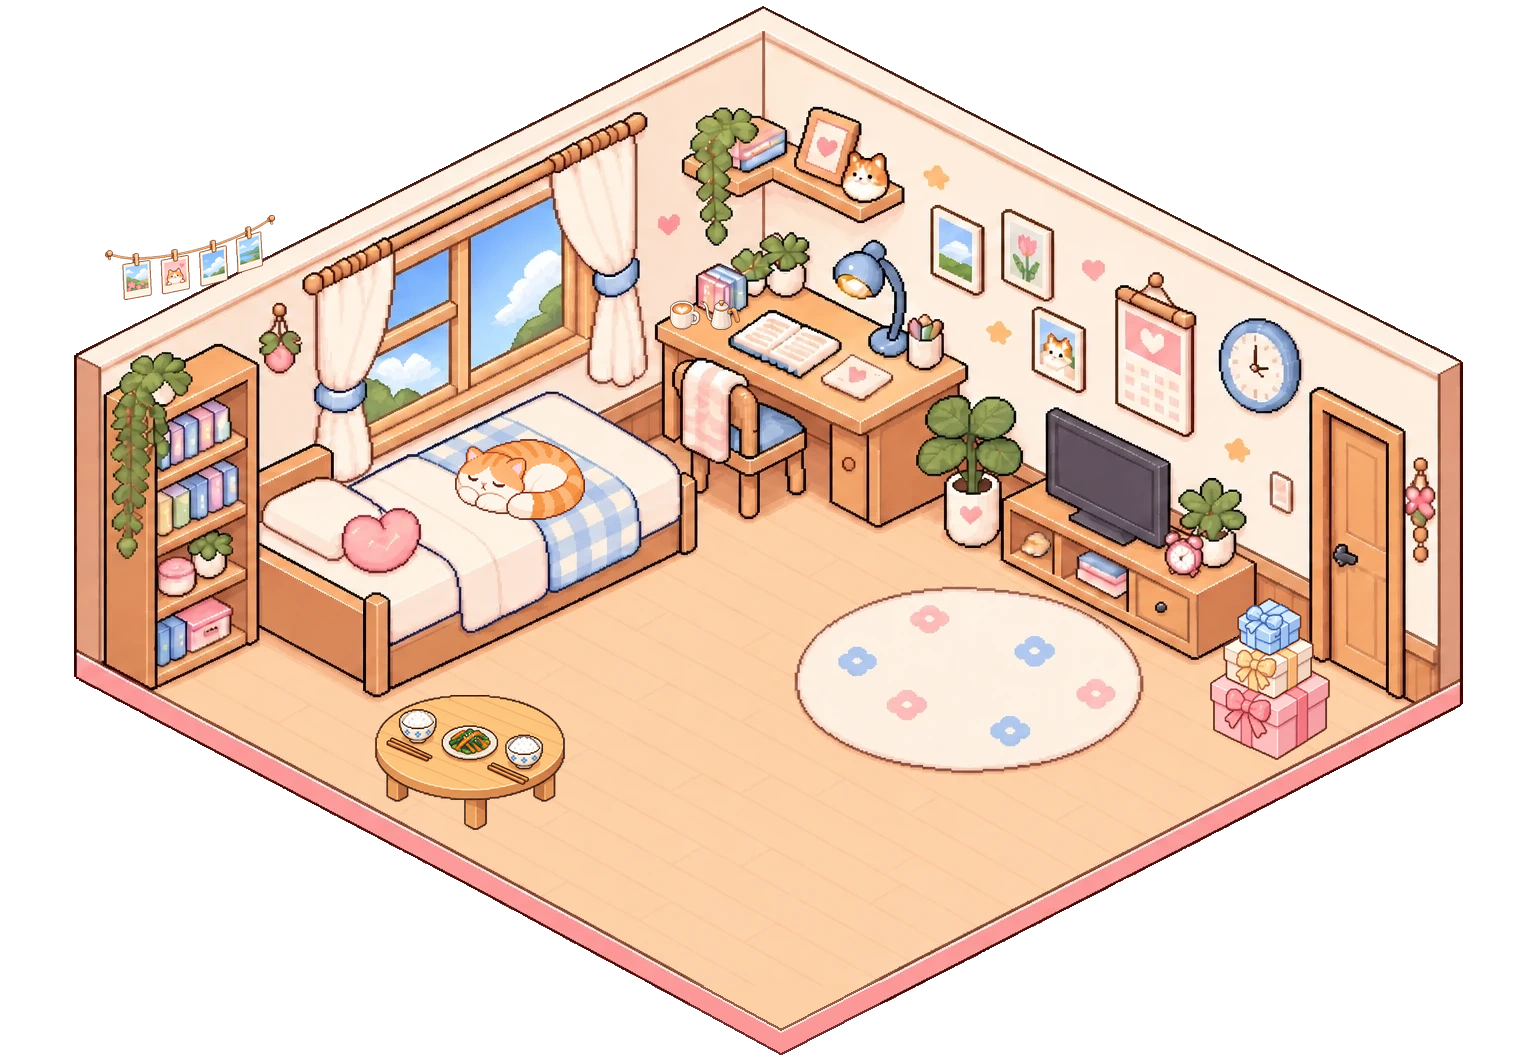
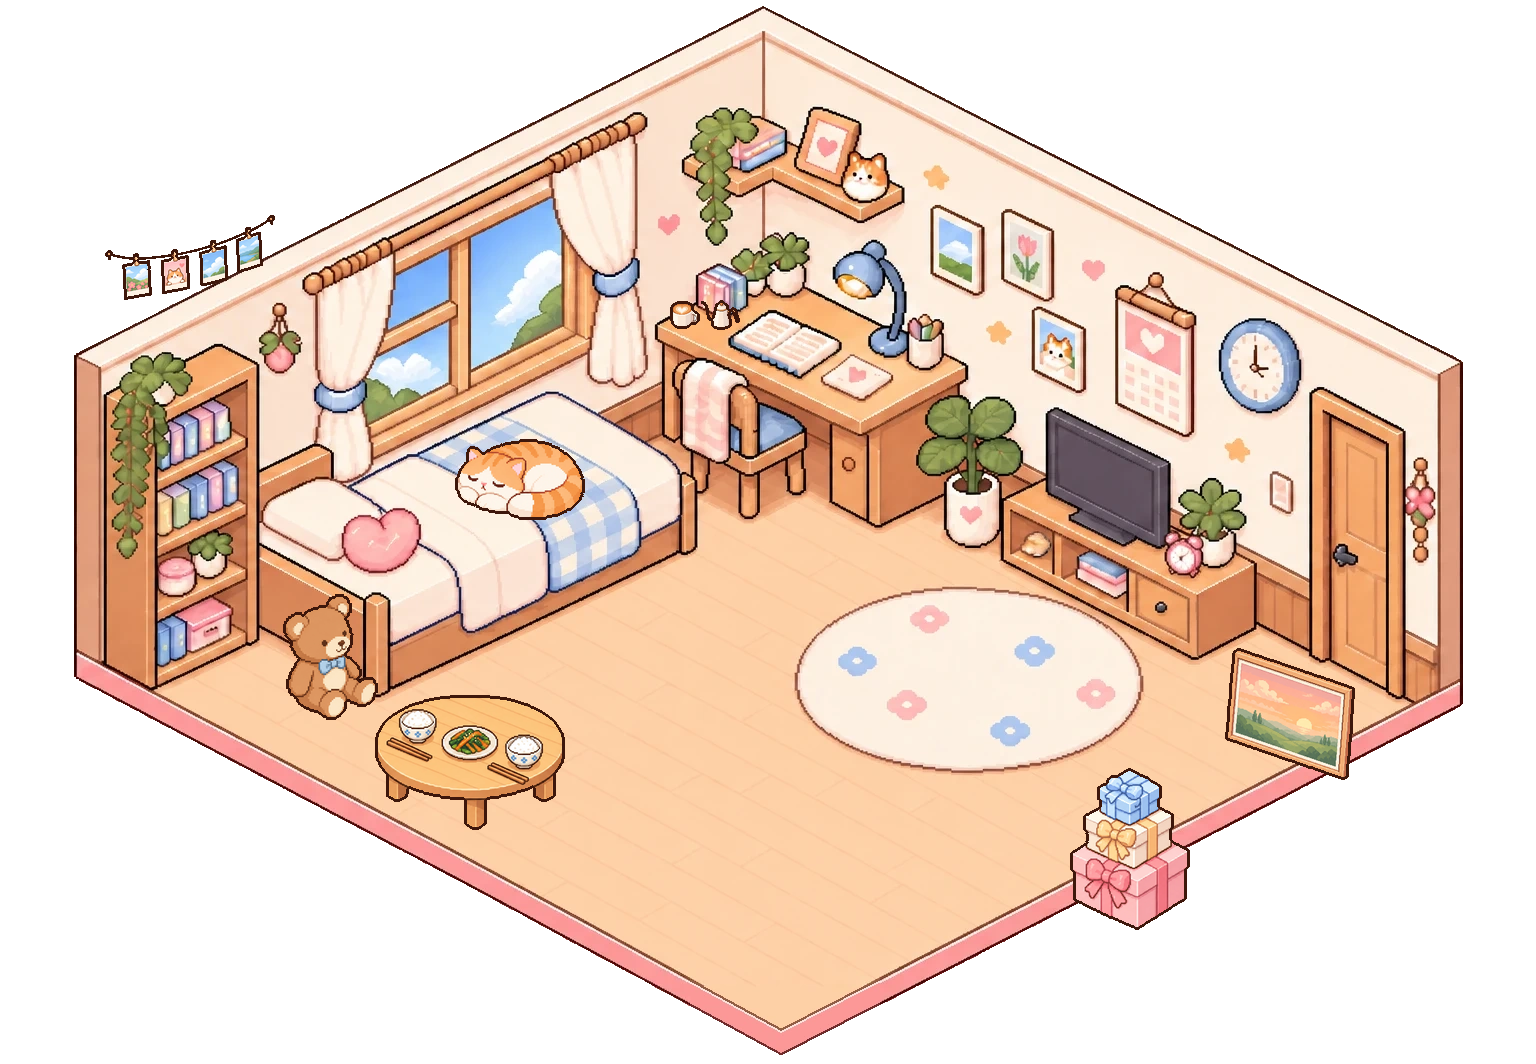
Mockup: redraw furniture outlines at room thickness; add painting and bear
Claude-Session: https://claude.ai/code/session_01HNLjjDhwiWZnZmJhscAi2v

diff --git a/art/tools/furniture_mock.py b/art/tools/furniture_mock.py
@@ -2,11 +2,26 @@
 import sys; sys.path.insert(0,'art/tools')
 from joy_icons import white_cut
 from PIL import Image
+import numpy as np
+from scipy import ndimage
+
+LINE = (62, 23, 11)  # 房間外框的顏色
+def reline(im, w=3):
+    """縮小後外框會變細變淡：沿著外輪廓重畫一圈跟房間一樣粗、一樣深的線"""
+    a = np.array(im)
+    m = a[..., 3] > 128
+    ring = m & ~ndimage.binary_erosion(m, iterations=w)
+    a[ring, :3] = LINE
+    a[..., 3] = np.where(m, 255, 0)
+    return Image.fromarray(a)
+import sys
+RELINE='--raw' not in sys.argv
 room=Image.open('public/room/pixel_room/room.webp').convert('RGBA')
 # key: (中心x, 底部y, 寬)
-PLACE={'cat':(520,520,130),'coffee':(705,330,70),'meal':(470,830,190),'camera':(190,300,170),'gift':(1270,760,120)}
+PLACE={'cat':(520,520,130),'coffee':(705,330,70),'meal':(470,830,190),'camera':(190,300,170),'gift':(1130,930,120),'sunset':(1290,780,130),'bear':(330,720,95)}
 for k,(cx,by,w) in PLACE.items():
     im=white_cut(f'art/source/furniture/{k}.png')
     im=im.resize((w,round(im.height*w/im.width)),Image.LANCZOS)
+    if RELINE: im=reline(im)
     room.alpha_composite(im,(cx-w//2,by-im.height))
 room.save('art/source/furniture/mock.png')
